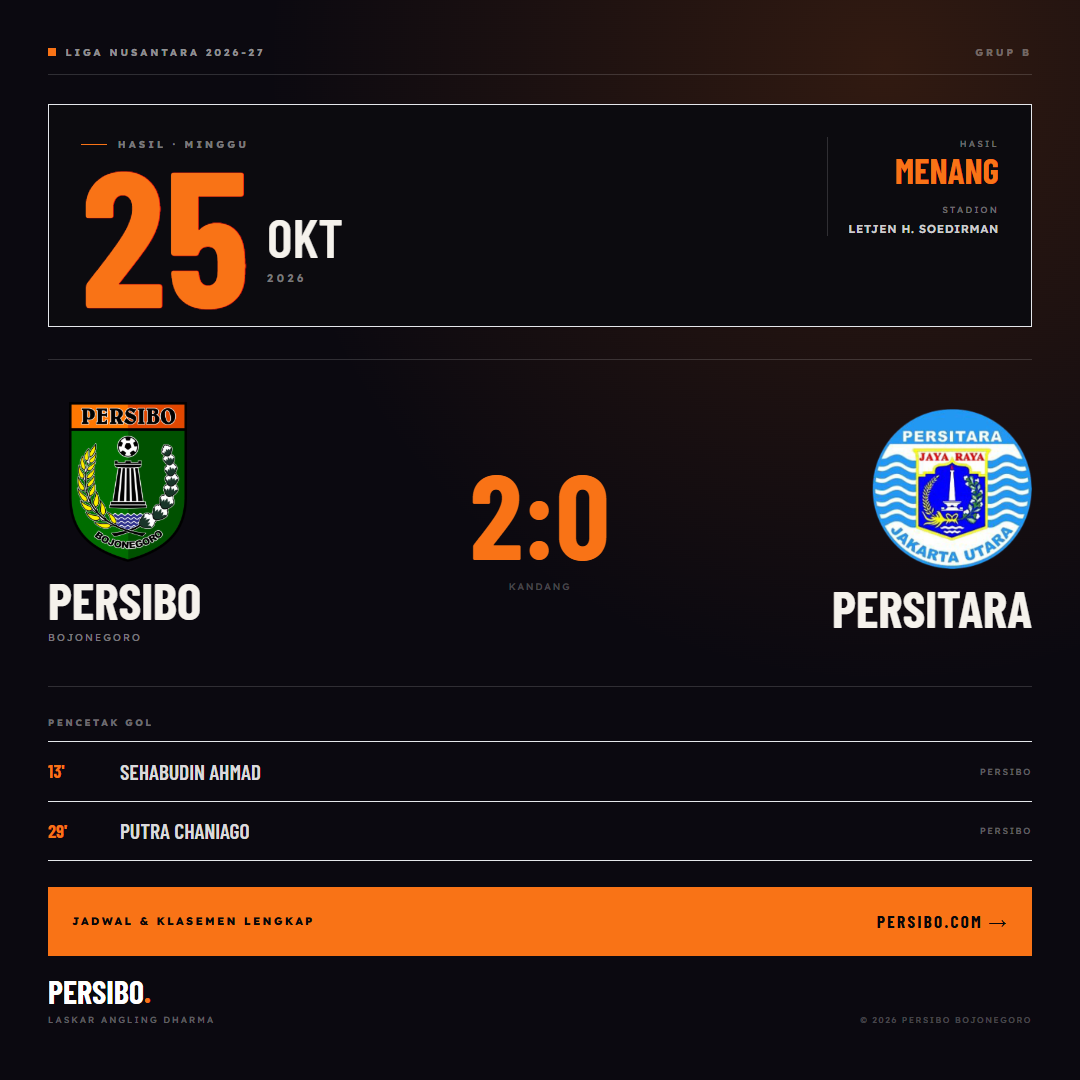
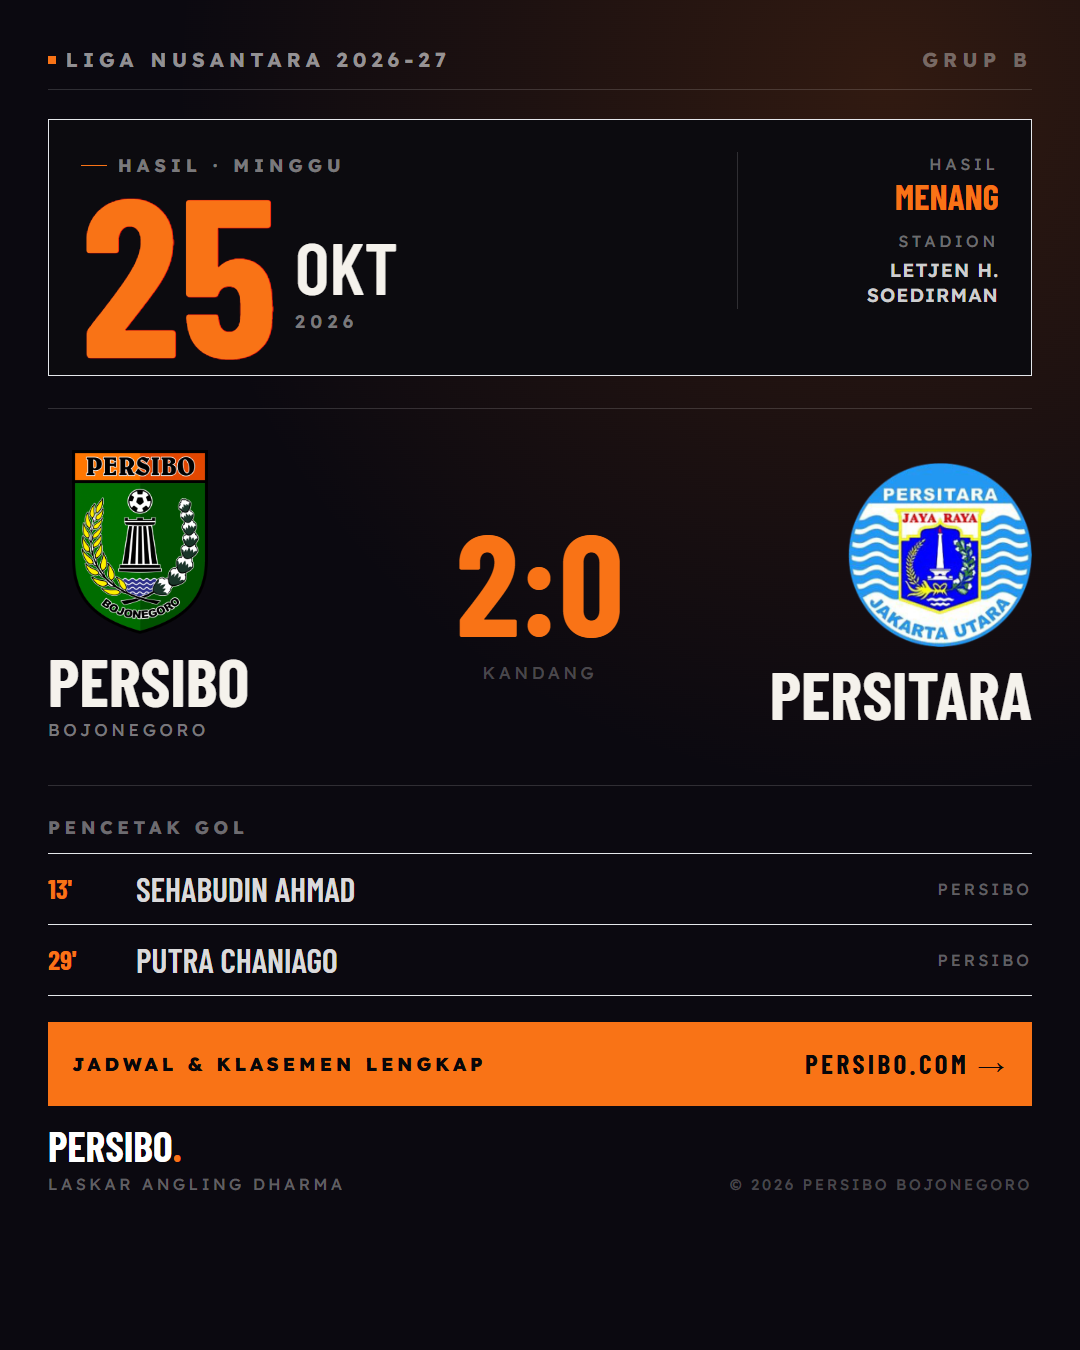
Poster uji coba PS Ngada dan tipografi poster 1080x1350
Kanvas poster laga jadi 1080x1350 dengan label 16-20px, nama tim 4.2rem, skor 9rem. Field resep baru competition/tag/ticket/captions untuk laga non-liga; harga tiket masuk panel tanggal, CTA oranye tetap persibo.com. Empat poster lama dirender ulang; alias PSNGADA membuat PS Ngada memakai crest yang sama di situs.

diff --git a/src/utils/dataLoader.ts b/src/utils/dataLoader.ts
@@ -217,6 +217,7 @@ const LOGO_ALIASES: Record<string, string> = {
   PERSIKU: '/img/teams/persikutim-united.png',
   PERSEWAR9: '/img/teams/persewar.png',
   PERSELALAMONGAN: '/img/teams/persela.png',
+  PSNGADA: '/img/teams/psn-ngada.png',
 };
 
 export function localLogoFor(teamName: string): string | null {

diff --git a/CHANGELOG.md b/CHANGELOG.md
@@ -9,6 +9,7 @@ dan proyek ini mengikuti [Semantic Versioning](https://semver.org/lang/id/).
 ### Added
 - Uji coba terjadwal: PERSIBO vs PS Ngada, Jumat 6 November 2026, 15.30 WIB, Stadion Letjen H. Soedirman. Masuk `friendlies.json` dengan skor `null`: kartu menampilkan jam kickoff, badge AKAN DATANG, dan tombol Beli tiket ke tiketbisa.com. Rekor menang/kalah hanya menghitung laga yang sudah selesai.
 - `SportsEvent` JSON-LD di beranda untuk laga terjadwal terdekat. Laga 6 November jadi event pertama yang dibaca crawler: `startDate` ISO, venue + alamat Bojonegoro, homeTeam/awayTeam. `startDate` halaman pertandingan juga diperbaiki: `kickoff_iso` untuk 2026-27, tanggal ISO untuk arsip tanpa jam kickoff (sebelumnya string kosong). Harga tiket uji coba (Ekonomi Rp25.000, VIP Rp90.000) tampil di kartu dan dikirim sebagai dua `Offer`.
+- Poster laga 1080×1350 untuk uji coba 6 November (`uji-coba-ps-ngada.png`): tipografi diperbesar (label 16–20px, nama tim 4.2rem, skor 9rem), ukuran yang sama dengan carousel jadwal grup. Field resep baru: `competition`, `tag`, `ticket`, `captions`. Harga tiket jadi satu baris di panel tanggal, bukan CTA — CTA oranye tetap `persibo.com`. Crest PSN Ngada dipetakan lewat alias `PSNGADA` di `dataLoader`, jadi "PS Ngada" ikut memakai crest yang sama di situs.
 - `npm run sosmed`: poster media sosial 1080×1080 dari halaman Astro `src/pages/sosmed/[poster].astro`, di-screenshot headless Chrome (`scripts/sosmed.mjs`) ke `social/out/`. Resep per gambar di `social/posts.json`; mode `jadwal` dan `hasil` (skor besar, badge MENANG/KALAH/SERI, pencetak gol dari field `scorers`), plus blok tiga laga berikutnya. Logo lawan pakai varian `/h/200/` agar tidak blur, footer poster bercap hak cipta.
 - Carousel jadwal grup (4 slide 1080×1350): `src/pages/sosmed/jadwal/[bagian].astro`, dev-only lewat `getStaticPaths`. Cover memuat crest `/logo.png` (753×1024, bukan crest 160px yang blur kalau dibesarkan), indeks 14 tanggal, dan strip tujuh klub lawan; tiga slide sisanya satu bulan masing-masing. Tanggal dan jam dibaca dari `fixtures.json`, jadi tidak ada yang diketik tangan.
 - `npm run derive-player-stats` (`scripts/derive-player-stats.js`): menurunkan statistik pemain dari `matchDetails.json` 2024-25 + 2025-26, bukan dari tabel iLeague. Penampilan = XI awal + pengganti yang benar-benar masuk (punya `substitution_minutes`), gol dan kartu dari linimasa. Jembatan nama pendek → lengkap ada di `scripts/player-alias.json`, dicocokkan lewat nomor punggung karena pencocokan nama samar gagal pada 12 dari 30 pemain. Skrip idempoten: boleh dijalankan ulang setelah data pertandingan bertambah.

diff --git a/AGENT.md b/AGENT.md
@@ -162,8 +162,8 @@ hanya membungkus endpoint tersebut lewat `<iframe>`.
 ### Poster Media Sosial (`npm run sosmed`)
 
 Poster dibuat sebagai halaman Astro biasa (Tailwind + font situs), lalu di-screenshot headless Chrome
-lewat `scripts/sosmed.mjs` → `social/out/<out>.png`. Resolusi default 1080×1080; isi resep poster
-ada di `social/posts.json` (satu entry = satu PNG).
+lewat `scripts/sosmed.mjs` → `social/out/<out>.png`. Resolusi 1080×1350 (portrait, sama dengan
+carousel jadwal grup); isi resep poster ada di `social/posts.json` (satu entry = satu PNG).
 
 ```json
 { "out": "laga-persipa", "md": 1 }
@@ -171,7 +171,12 @@ ada di `social/posts.json` (satu entry = satu PNG).
 
 Field opsional: `mode` (`jadwal`|`hasil`), `date`, `time`, `home`, `away`, `venue`, `grup`, `md`,
 `hs`/`as` (skor), `scorers` (`[{ minute, player, team }]`). Yang tidak diisi diambil dari laga
-berikutnya di `fixtures.json` musim aktif. Kanvas tetap 1080×1080.
+berikutnya di `fixtures.json` musim aktif. Kanvas 1080×1350.
+
+Laga non-liga (uji coba) memakai empat field tambahan: `competition` (label header, mis. "Uji
+Coba"), `tag` (chip kanan atas, default `Grup B`), `ticket` (satu baris harga tiket di panel
+tanggal; CTA oranye tetap `persibo.com`), dan `captions: { home, away }` karena laga uji coba tidak
+punya grup untuk dijadikan keterangan lawan.
 
 Mode `hasil` menampilkan skor besar, badge MENANG/KALAH/SERI, dan daftar pencetak gol. Blok
 pencetak gol hanya muncul kalau `scorers` diisi; kalau tidak, poster jatuh ke blok jadwal
@@ -183,7 +188,7 @@ berikutnya. `matchDetails.events` sengaja tidak dipakai: isinya tidak cocok deng
 - Hasil render di `social/out/` ikut di-commit: itu bahan yang diposting, bukan artefak build. Render ulang boleh menimpa berkas yang sama.
 - Script memakai dev server yang sudah jalan di port 4321; kalau belum ada, ia menyalakannya sendiri.
 - Logo lawan diambil dari URL musim aktif dengan varian `/h/200/` (830px), bukan crest mirror
-  50–105px yang dipakai situs — kalau digambar di 160px hasilnya blur. Mirror tetap jadi fallback
+  50–105px yang dipakai situs — kalau digambar di 184px hasilnya blur. Mirror tetap jadi fallback
   lewat `onerror`.
 - Job boleh menunjuk halaman lain: `{ "out", "url": "/sosmed/identitas", "selector": "#art-wordmark", "transparent": true }`. Tanpa `url`/ `selector`, dipakai `/sosmed/<out>` dan `#poster`.
 - Artboard identitas (logotype, post pengumuman) ada di `src/pages/sosmed/identitas.astro`; filosofi mark di `brand/FILOSOFI.md`.

diff --git a/social/captions.md b/social/captions.md
@@ -74,6 +74,20 @@ Situs penggemar, bukan akun resmi. Jadwal dan klasemen tiap hari di persibo.com.
 
 ---
 
+## 6. Poster uji coba (`uji-coba-ps-ngada.png`)
+
+Jumat, 6 November. Persibo nglawan PS Ngada ing Stadion Letjen H. Soedirman, kick-off 15.30 WIB.
+
+Tiket: Ekonomi Rp25.000, VIP Rp90.000. Tuku ing tiketbisa.com.
+
+Iki persiapan pungkasan sadurunge Liga Nusantara dibuka 13 November nang kandang dhewe.
+
+Situs penggemar, dudu akun resmi. Jadwal lan klasemen saben dina ing persibo.com.
+
+#Persibo #PersiboBojonegoro #LaskarAnglingDharma #Bojonegoro #LigaNusantara #UjiCoba
+
+---
+
 ## Catatan
 
 - Jangan pakai kata "resmi", "official", atau "rebranding" — situs ini penggemar.
